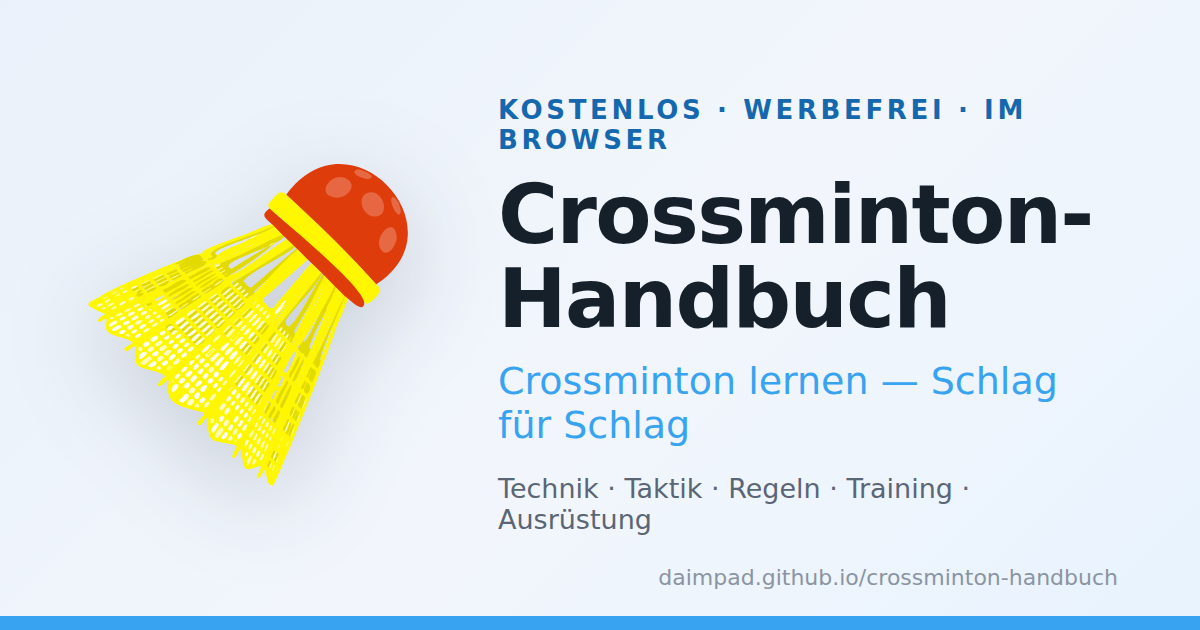
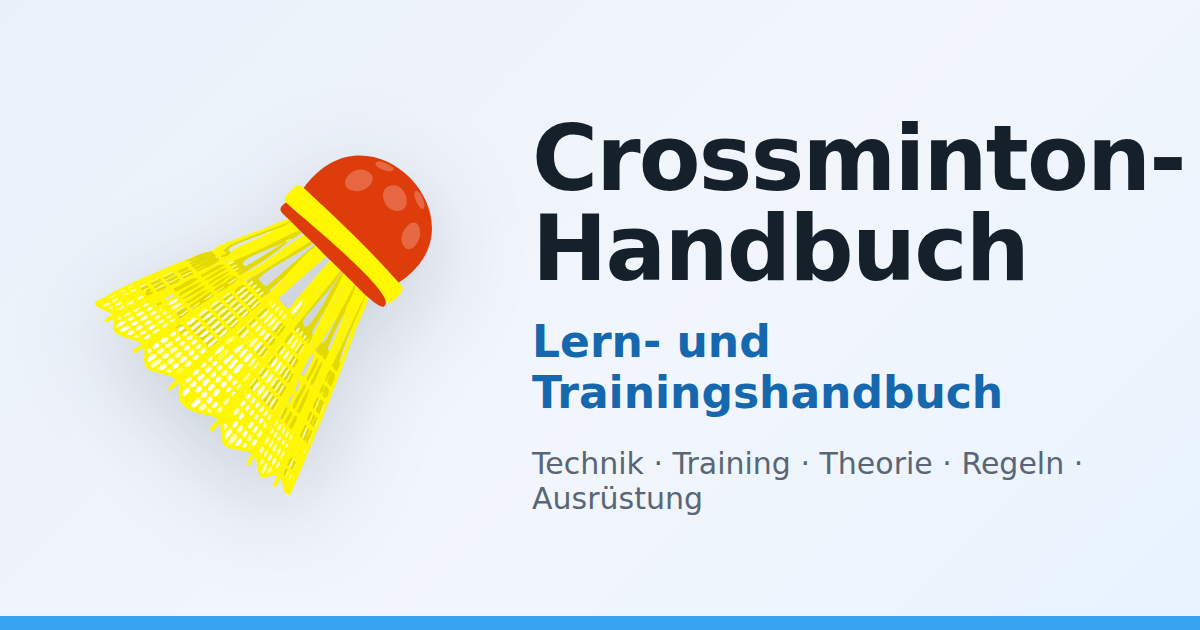
Marken-Hero: Startseite + Landingpages grafisch verankern (OG-Layout)
Ein Marken-Hero im Layout des OpenGraph-Bilds gibt der App einen klaren,
wiederkehrenden Einstiegspunkt und den obersten Seiten grafische Orientierung.

- oberflaeche.js: markeHeroGross() (Speeder + app_titel / hero_untertitel
  „Lern- und Trainingshandbuch" / hero_themen „Technik · Training · Theorie ·
  Regeln · Ausrüstung", Akzentleiste) und heroKlein(icon, titel, untertitel).
  Nur Tokens → hell/dunkel automatisch.
- Startseite (heim.js) und Willkommen (willkommen.js) tragen denselben großen
  Hero. Logo-Klick (href="#/") führt damit immer auf einen Hero-getoppten
  Einstieg zurück — die vom Nutzer gewünschte Orientierung.
- Kleine Heroes (Icon-Kachel + Titel + Untertitel) auf den obersten Landing-
  pages: Training, Regeln, Profil, Über, Mitmachen.
- OG-Bild (images/og-image.png) auf dieselben Textbausteine umgestellt, OHNE
  URL und ohne Eyebrow — Hero und Vorschaubild sind jetzt deckungsgleich.
- CSS .marke-hero / .klein (+ Desktop-Größe), Labels hero_untertitel/
  hero_themen/profil_intro + en/fr/pl-Skelette.

Verifiziert: Engine 271/0, validate.py 0/0 (beide unberührt), Playwright
hell+dunkel — Home + Willkommen mit großem Hero (identischer Text/Layout),
alle 5 Landingpages mit kleinem Hero + korrektem Icon, 0 JS-Fehler.

Claude-Session: https://claude.ai/code/session_013KNt9ps5BEZjHZh3HU8knw

Changed region(s): [[0.4008, 0.1508, 0.9867, 0.8444], [0.0617, 0.2413, 0.37, 0.7841], [0.555, 0.9048, 0.925, 0.9349]]

diff --git a/css/app.css b/css/app.css
@@ -1270,6 +1270,66 @@ details[open] summary { margin-bottom: 0.5rem; }
   justify-content: center;
 }
 
+/* Marken-Hero (Layout des OG-Bilds): Speeder/Icon links, Text rechts, Akzentleiste
+   unten. Nur Tokens → hell/dunkel automatisch. Groß auf Start/Willkommen, .klein
+   auf den obersten Landingpages. */
+.marke-hero {
+  display: flex;
+  align-items: center;
+  gap: 1.15rem;
+  position: relative;
+  overflow: hidden;
+  padding: 1.35rem 1.35rem 1.55rem;
+  margin-bottom: 1.2rem;
+  border: 1px solid var(--linie);
+  border-radius: var(--radius);
+  box-shadow: var(--schatten-karte);
+  background: linear-gradient(135deg, var(--hintergrund-2) 0%, var(--flaeche) 55%, var(--primaer-weich) 100%);
+}
+.marke-hero::after {
+  content: '';
+  position: absolute;
+  left: 0;
+  right: 0;
+  bottom: 0;
+  height: 5px;
+  background: var(--primaer);
+}
+.marke-hero-bild {
+  flex: none;
+  width: 96px;
+  height: 96px;
+  filter: drop-shadow(0 10px 22px rgba(20, 30, 45, 0.16));
+}
+.marke-hero-icon {
+  flex: none;
+  width: 3rem;
+  height: 3rem;
+  display: inline-flex;
+  align-items: center;
+  justify-content: center;
+  border-radius: var(--radius-klein);
+  background: var(--primaer-weich);
+  color: var(--primaer-tief);
+  font-size: 1.35rem;
+}
+.marke-hero-text { display: flex; flex-direction: column; gap: 0.15rem; min-width: 0; }
+.marke-hero-text h1 { margin: 0; font-size: 1.5rem; line-height: 1.1; color: var(--tinte); letter-spacing: -0.015em; }
+.marke-hero-untertitel { margin: 0; font-weight: 600; color: var(--primaer-tief); font-size: 1rem; }
+.marke-hero-themen { margin: 0.1rem 0 0; color: var(--tinte-2); font-size: 0.86rem; }
+
+.marke-hero.klein { gap: 0.9rem; padding: 0.9rem 1.1rem 1.05rem; }
+.marke-hero.klein::after { height: 4px; }
+.marke-hero.klein .marke-hero-text h1 { font-size: 1.25rem; }
+.marke-hero.klein .marke-hero-untertitel { font-weight: 500; font-size: 0.9rem; color: var(--tinte-2); }
+.willkommen-lead { margin: -0.5rem 0 1.1rem; }
+
+@media (min-width: 40rem) {
+  .marke-hero { gap: 1.6rem; padding: 1.6rem 1.7rem 1.8rem; }
+  .marke-hero-bild { width: 120px; height: 120px; }
+  .marke-hero-text h1 { font-size: 1.85rem; }
+}
+
 .cta-karte {
   display: flex;
   align-items: center;

diff --git a/js/oberflaeche.js b/js/oberflaeche.js
@@ -68,6 +68,33 @@ export function leerHtml(nachricht, icon = 'fa-compass') {
     </div>`;
 }
 
+// Marken-Hero im Layout des OG-Bilds (Speeder links, Text rechts, Akzentleiste
+// unten). Groß auf Startseite + Willkommen; die obersten Landingpages nutzen die
+// kleine Variante heroKlein(icon, titel, untertitel). Alle Farben aus Tokens —
+// hell/dunkel kippen automatisch mit.
+export function markeHeroGross() {
+  return `
+    <section class="marke-hero">
+      <img class="marke-hero-bild" src="assets/images/speeder.svg" alt="" width="96" height="96">
+      <div class="marke-hero-text">
+        <h1>${esc(t('app_titel'))}</h1>
+        <p class="marke-hero-untertitel">${esc(t('hero_untertitel'))}</p>
+        <p class="marke-hero-themen">${esc(t('hero_themen'))}</p>
+      </div>
+    </section>`;
+}
+
+export function heroKlein(icon, titel, untertitel = '') {
+  return `
+    <section class="marke-hero klein">
+      <span class="marke-hero-icon"><i class="fa-solid ${icon}" aria-hidden="true"></i></span>
+      <div class="marke-hero-text">
+        <h1>${esc(titel)}</h1>
+        ${untertitel ? `<p class="marke-hero-untertitel">${esc(untertitel)}</p>` : ''}
+      </div>
+    </section>`;
+}
+
 export function statusPunktHtml(station) {
   const { erklaerteil, uebungsteil, reflexionsaufgabe, absolviert } = station.status;
   let klasse = 'offen';

diff --git a/js/ansichten/willkommen.js b/js/ansichten/willkommen.js
@@ -3,20 +3,14 @@
 // Weg über die Diagnostik — mit kurzer Begründung, warum Anpassen lohnt.
 
 import { t } from '../i18n.js';
-import { esc } from '../oberflaeche.js';
+import { esc, markeHeroGross } from '../oberflaeche.js';
 import { schliesseOnboardingAb, setzeDiagnose } from '../zustand.js';
 
 export function renderWillkommen(el, daten) {
   const kapitelAnzahl = daten.bausteine.length;
   el.innerHTML = `
-    <section class="hero">
-      <div class="hero-icons">
-        <i class="fa-solid fa-table-tennis-paddle-ball" aria-hidden="true"></i>
-        <i class="fa-solid fa-person-running" aria-hidden="true"></i>
-      </div>
-      <h1>${esc(t('wk_titel'))}</h1>
-      <p>${esc(t('wk_untertitel'))}</p>
-    </section>
+    ${markeHeroGross()}
+    <p class="leise willkommen-lead">${esc(t('wk_untertitel'))}</p>
 
     <h2 class="abschnitt-titel">${esc(t('wk_einstieg'))}</h2>
 

diff --git a/js/ansichten/info.js b/js/ansichten/info.js
@@ -5,7 +5,7 @@
 
 import { aktiviereFeedback, feedbackAktiv } from '../feedback.js';
 import { t, text } from '../i18n.js';
-import { esc, externesZiel } from '../oberflaeche.js';
+import { esc, externesZiel, heroKlein } from '../oberflaeche.js';
 
 function istPlatzhalter(wert) {
   return typeof wert === 'string' && wert.trim().startsWith('[');
@@ -44,7 +44,7 @@ export function renderUeber(el, daten) {
   const absaetze = (u.absaetze || []).map((a) => `<p>${esc(text(a) ?? '')}</p>`).join('');
   const links = (u.links || []).map((l) => `<p class="info-cta">${externerLink(l.ziel, text(l.label) ?? '', 'knopf knopf-sekundaer')}</p>`).join('');
   el.innerHTML = `
-    <h1>${esc(text(u.titel) ?? t('nav_ueber'))}</h1>
+    ${heroKlein('fa-compass', text(u.titel) ?? t('nav_ueber'))}
     ${absaetze ? `<section class="karte">${absaetze}</section>` : ''}
     ${abschnittHtml(u.danksagungen)}
     ${abschnittHtml(u.credits_lizenz)}
@@ -102,7 +102,7 @@ export function renderMitmachen(el, daten) {
     : '';
 
   el.innerHTML = `
-    <h1>${esc(text(m.titel) ?? t('nav_mitmachen'))}</h1>
+    ${heroKlein('fa-comments', text(m.titel) ?? t('nav_mitmachen'))}
     ${einleitung}
     ${karten}
     ${feedbackKarte}`;

diff --git a/js/ansichten/regeln.js b/js/ansichten/regeln.js
@@ -6,7 +6,7 @@
 // kein Graph, kein Pflicht-Link) — nicht auflösbare IDs werden still ausgelassen.
 
 import { label, t, text } from '../i18n.js';
-import { esc, externesZiel } from '../oberflaeche.js';
+import { esc, externesZiel, heroKlein } from '../oberflaeche.js';
 
 // Quellenangabe sichtbar im Reiter (Herausgeber + Stand): die Regeln sind strikt
 // aus der offiziellen Quelle, das gehört benannt.
@@ -97,8 +97,7 @@ export function renderRegeln(el, daten) {
   const regeln = daten.regeln || { meta: {}, abschnitte: [] };
   const abschnitte = regeln.abschnitte.map((abschnitt, i) => abschnittHtml(daten, abschnitt, i === 0)).join('');
   el.innerHTML = `
-    <h1>${esc(t('regeln_titel'))}</h1>
-    <p class="leise">${esc(t('regeln_intro'))}</p>
+    ${heroKlein('fa-book-open', t('regeln_titel'), t('regeln_intro'))}
     <a class="karte karte-link karte-akzent" href="#/turnier">
       <h3><i class="fa-solid fa-scale-balanced" aria-hidden="true"></i> ${esc(t('turnier_titel'))}</h3>
       <p class="leise">${esc(t('turnier_kachel_text'))}</p>

diff --git a/js/ansichten/training.js b/js/ansichten/training.js
@@ -7,7 +7,7 @@
 import { einheitReferenzen } from '../daten.js';
 import { projektion } from '../fortschritt.js';
 import { label, t, text } from '../i18n.js';
-import { bausteinIcon, esc, leerHtml, neuRendern } from '../oberflaeche.js';
+import { bausteinIcon, esc, heroKlein, leerHtml, neuRendern } from '../oberflaeche.js';
 import { kompetenzpfad, trainingsuebersicht } from '../pfade.js';
 import { kontinuitaet, registriereEinheitAbschluss, setzeTeilStatus, teilStatus } from '../zustand.js';
 import { uebungsteilHtml } from './baustein.js';
@@ -54,8 +54,7 @@ function renderListe(el, daten) {
     })
     .join('');
   el.innerHTML = `
-    <h1>${esc(t('pfad_training'))}</h1>
-    <p class="leise">${esc(t('pfad_training_text'))}</p>
+    ${heroKlein('fa-table-tennis-paddle-ball', t('pfad_training'), t('pfad_training_text'))}
     <a class="karte karte-link karte-akzent" href="#/plan">
       <h3><i class="fa-solid fa-calendar-days" aria-hidden="true"></i> ${esc(t('plan_titel'))}</h3>
       <p class="leise">${esc(t('plan_kachel_text'))}</p>

diff --git a/js/ansichten/heim.js b/js/ansichten/heim.js
@@ -3,7 +3,7 @@
 
 import { projektion } from '../fortschritt.js';
 import { label, t } from '../i18n.js';
-import { esc, ringHtml } from '../oberflaeche.js';
+import { esc, markeHeroGross, ringHtml } from '../oberflaeche.js';
 import { kompetenzpfad, spielformen, themenDomaenen, umgebungBausteine } from '../pfade.js';
 import { diagnose, kontinuitaet, speicherIstVerfuegbar } from '../zustand.js';
 import { zielLabels } from './zielwahl.js';
@@ -99,7 +99,7 @@ export function renderHeim(el, daten) {
     </div>`;
 
   el.innerHTML = `
-    <h1 class="nur-sr">${esc(t('nav_lernen'))}</h1>
+    ${markeHeroGross()}
     ${speicherIstVerfuegbar() ? '' : `<div class="banner-hinweis">${esc(t('speicher_warnung'))}</div>`}
     ${weiterlernen}
     <h2 class="abschnitt-titel">${esc(t('pfade'))}</h2>

diff --git a/js/ansichten/profil.js b/js/ansichten/profil.js
@@ -6,7 +6,7 @@ import { markiereAbsolviert } from '../aktionen.js';
 import { deltaFuer, niedrigsteStufe } from '../daten.js';
 import { bausteinAbsolviert, globaleProjektion, projektion } from '../fortschritt.js';
 import { label, setzeSprache, sprache, t } from '../i18n.js';
-import { balkenHtml, esc, neuRendern, ringHtml, wendeThemaAn, zeigeMeilenstein } from '../oberflaeche.js';
+import { balkenHtml, esc, heroKlein, neuRendern, ringHtml, wendeThemaAn, zeigeMeilenstein } from '../oberflaeche.js';
 import { kompetenzpfad } from '../pfade.js';
 import { diagnose, einstellungen, kontinuitaet, setzeDiagnose, setzeEinstellung, setzeZurueck } from '../zustand.js';
 import { gewaehlteZiele, zielLabels, zielwahlHtml } from './zielwahl.js';
@@ -134,7 +134,7 @@ export function renderProfil(el, daten) {
     .join('');
 
   el.innerHTML = `
-    <h1>${esc(t('nav_profil'))}</h1>
+    ${heroKlein('fa-user', t('nav_profil'), t('profil_intro'))}
 
     <section class="karte">
       <h2>${esc(t('profil_diagnose'))}</h2>

diff --git a/CLAUDE.md b/CLAUDE.md
@@ -77,7 +77,7 @@ Farben, Typografie und Icon-Regeln stehen in `docs/ci.md` und sind als CSS-Varia
 - **Grafiken sind durchnummeriert (`G-XXX`), Platzhalter-PNGs liegen in `images/`.** Das optionale Baustein-Feld `grafik` ist eine **Liste** von `G-XXX`-Nummern (Sequenzen tragen mehrere, z. B. `aufschlag` → `["G-005","G-006"]`); `grafikenHtml` in `js/ansichten/baustein.js` rendert daraus ein echtes `<img src="images/G-XXX.png">` (CSS `.grafik-bild`). Die sichtbare Beschriftung steht als Label unter `grafiken` in `labels/de.json`, **nach `G-XXX` gekeyed** (nicht mehr `*_leitgrafik`/`*_seq_n` — die alten Namen wurden koordiniert umnummeriert, auch in `bausteine.beginner-technik.json`). Nummernkreis nach Reitern: Technik `G-001–022`, Taktik `G-023–031`, Athletik `G-032–036`, Doppel `G-037–053`, Outdoor `G-054–059`, Regeln `G-060–061`. **55 Bausteine tragen eine Grafik (59 Referenzen); `G-060`/`G-061` hängen an keinem Baustein** — es sind die zwei Referenzgrafiken im Regeln-Reiter (`renderRegeln`, eingeklappte `<details>`-Sektion `regeln_grafiken`). Deltas tragen nie eine eigene Grafik. Der vollständige Katalog **und das Abdeckungs-Audit** (bewusst bildlos: Mentales, abstrakte Taktik, konditionelle Athletik, Trainer) stehen in `images/grafik-prompts.md`. **Erzeugte Bilder ersetzen die Platzhalter 1:1 unter gleichem Namen — nie umbenennen.** Der Test `[10] Grafiksystem` prüft Schema, Datei-Existenz, Sequenzen und die G-060/061-Ausnahme.
 - **Doku-Reiter: `README.md` (nur Konzept/Angebot) + `docs/TECHNICAL.md` (technische Kurzfassung).** README trägt das Speeder-Logo (`images/logo-speeder.svg`), Badges und die **Lizenz-Trennung Code (MIT) / Inhalt (CC BY-SA 4.0)** mit sichtbaren `[Jahr]`/`[Rechteinhaber]`-Platzhaltern (bewusst nicht gefüllt). Beide sind reine GitHub-Dokumente (README verlinkt TECHNICAL); sie sind **nicht** in der App-Navigation verlinkt (die früher testweise im „Mehr"-Menü eingebundenen `[data-doc]`-Links wurden auf Wunsch wieder entfernt) — **kein In-App-Markdown-Renderer** (buildfrei bleibt Pflicht). `ENTWICKLUNG.md` bleibt die tiefe Entwickler-Referenz; verbindlich ist weiter `docs/uebergabe-spezifikation.md`.
 - **Feedback-Modus lädt den Kommentator on-demand nach — zwei Auslöser, eine Aktivierung.** `js/feedback.js` bindet die **lokal eingecheckte** Fremdbibliothek `vendor/kommentator/{kommentare.js,kommentare.css}` (daimpad/kommentator, MIT, klassisches `window.Kommentare`-Skript — **kein ES-Modul, kein Build**, passt zur „lokal eingecheckte statische Datei"-Regel) **nur** dann ein, wenn `?feedback` in `location.search` steht (`initFeedbackWennGewuenscht()` beiläufig am Ende von `boot()`, teilbarer Link `.../crossminton-handbook/?feedback`) **oder** der Knopf unter **„Mitmachen"** geklickt wird (`aktiviereFeedback()`, ohne Reload; `renderMitmachen` in `js/ansichten/info.js` zeigt Karte mit Erklärtext + Knopf, nach Aktivierung `feedbackAktiv()`→Hinweis; Inhalt in `app-info.json` unter `mitmachen.feedback`). `aktiviereFeedback()` ist idempotent; normale Besucher laden **nichts** (kein Extra-UI/keine Extra-Bytes). Init auf **`#ansicht`** (Lern-Inhalte; Kopf/Nav außen vor), `toolbarMode`+`notes: 'floating'` (baut das Layout **nicht** um; Tool-UI hängt an `document.body`, übersteht das #ansicht-Neurendern der SPA — Kommentare sammeln sich sitzungsweit, Export bleibt vollständig), `themeToggle: false`. **Thema-Kopplung ohne Konflikt:** der Kommentator scoped sein Thema über **eigene Klassen** (`kommentare-dark`/`-light`), **nie** über `<html data-theme>`; `feedback.js` mappt App→Kommentator (hell→light, dunkel→dark, auto→auto) und führt es über das **`app:thema`-Event** (aus `wendeThemaAn`) nach. **CI-Angleichung:** `css/feedback.css` (nur im Feedback-Modus geladen, **nach** der Vendor-CSS) überschreibt die `--k-*`-Variablen des Kommentators auf die App-Tokens (`--primaer`, `--tinte`, `--linie`, Ampel-Gelb für Textmarker, Rubik, Radien) — mit den gleichen Theme-Selektoren wie der Kommentator (inkl. eigener `@media`-dark-Regel für „auto"), damit die App-Tokens gewinnen; die vendored Datei bleibt unangetastet. Rückmeldungen exportiert der Kommentator als JSON oder per E-Mail (`[email redacted]`) — **kein localStorage** (reiner Sitzungsspeicher).
-- **SEO/Social/PWA-Metadaten sind statisch und buildfrei (Tier 1).** Im `<head>` von `index.html`: `canonical`, Open-Graph- + Twitter-Card-Tags (Vorschaubild `images/og-image.png`, 1200×630), `apple-touch-icon`, `manifest`-Link und ein `application/ld+json`-Block (`WebSite`). Dazu im Root: `manifest.json` (PWA, `theme_color` `#38a4f1`, Icons `images/icon-192.png`/`-512.png` „any maskable"), `robots.txt` (+ Sitemap-Verweis), `sitemap.xml` (vorerst **nur die Wurzel** — Hash-Routing lässt keine echten Unterseiten-URLs zu), `.nojekyll`. Der `<noscript>`-Block trägt echten deutschen Inhalt (Themenschlagworte), damit JS-lose Crawler Text sehen. **OG-Bild + App-Icons sind eingecheckte PNGs**, per Playwright aus einem CI-Template gerendert (Speeder-Logo `assets/images/speeder.svg` auf Markenblau; `scratchpad/gen-og.mjs` als Rezept) — **kein Laufzeit-Build**. Absolute URLs zeigen auf `https://daimpad.github.io/crossminton-handbook/`; bei Custom-Domain anpassen. Die eigentliche Indexierbarkeit (Pfad-URLs statt `#/`, Deploy-Prerendering, volle Sitemap) ist **Tier 2** und liegt als Plan in `docs/seo-tier2-konzept.md` — bewusst noch nicht umgesetzt, weil es Router (`js/app.js`) und Deploy-Workflow berührt.
+- **SEO/Social/PWA-Metadaten sind statisch und buildfrei (Tier 1).** Im `<head>` von `index.html`: `canonical`, Open-Graph- + Twitter-Card-Tags (Vorschaubild `images/og-image.png`, 1200×630), `apple-touch-icon`, `manifest`-Link und ein `application/ld+json`-Block (`WebSite`). Dazu im Root: `manifest.json` (PWA, `theme_color` `#38a4f1`, Icons `images/icon-192.png`/`-512.png` „any maskable"), `robots.txt` (+ Sitemap-Verweis), `sitemap.xml` (vorerst **nur die Wurzel** — Hash-Routing lässt keine echten Unterseiten-URLs zu), `.nojekyll`. Der `<noscript>`-Block trägt echten deutschen Inhalt (Themenschlagworte), damit JS-lose Crawler Text sehen. **OG-Bild + App-Icons sind eingecheckte PNGs**, per Playwright aus einem CI-Template gerendert (Speeder-Logo `assets/images/speeder.svg` auf Markenblau; `scratchpad/gen-og.mjs` als Rezept) — **kein Laufzeit-Build**. **Der Marken-Hero teilt Layout UND Text mit dem OG-Bild:** `markeHeroGross()` (Speeder + `app_titel`/`hero_untertitel`/`hero_themen`, Akzentleiste) steht auf Startseite (`heim.js`) und Willkommen (`willkommen.js`) — Logo-Klick (`href="#/"`) führt so immer auf einen Hero-getoppten Einstieg zurück; `heroKlein(icon, titel, untertitel)` gibt den obersten Landingpages (Training/Regeln/Profil/Über/Mitmachen) einen kleinen Hero mit Icon-Kachel. Beide nur über Tokens gestylt (`.marke-hero`/`.klein`), hell/dunkel automatisch. Bei Textänderung am Hero das OG-Bild neu rendern (gleiche Bausteine). Absolute URLs zeigen auf `https://daimpad.github.io/crossminton-handbook/`; bei Custom-Domain anpassen. Die eigentliche Indexierbarkeit (Pfad-URLs statt `#/`, Deploy-Prerendering, volle Sitemap) ist **Tier 2** und liegt als Plan in `docs/seo-tier2-konzept.md` — bewusst noch nicht umgesetzt, weil es Router (`js/app.js`) und Deploy-Workflow berührt.
 
 ## Sprache
 